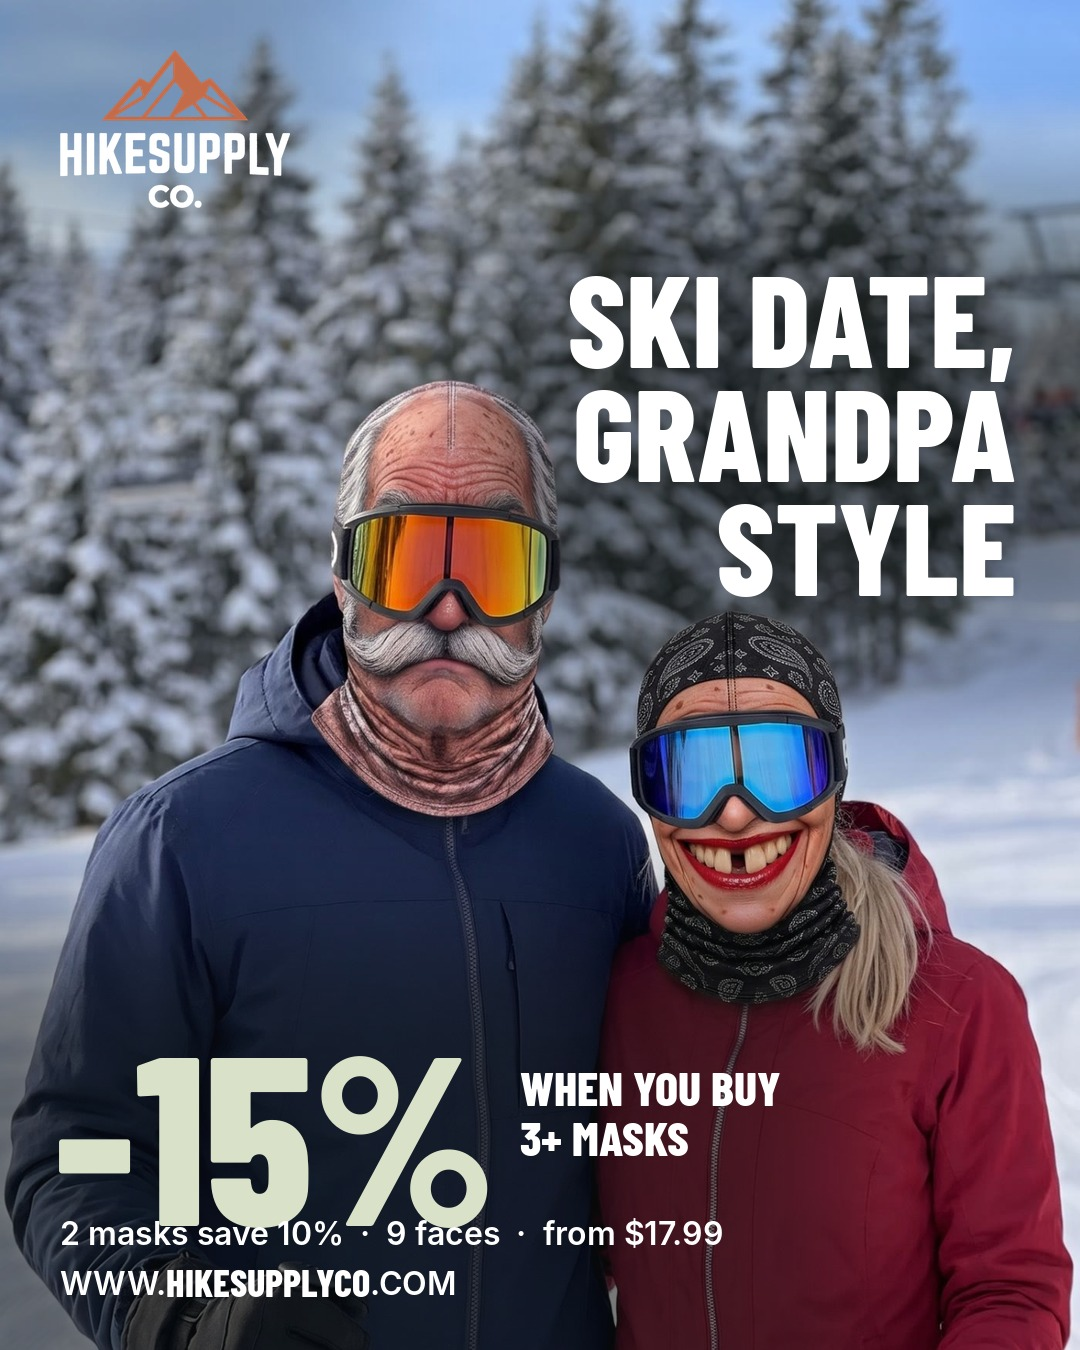
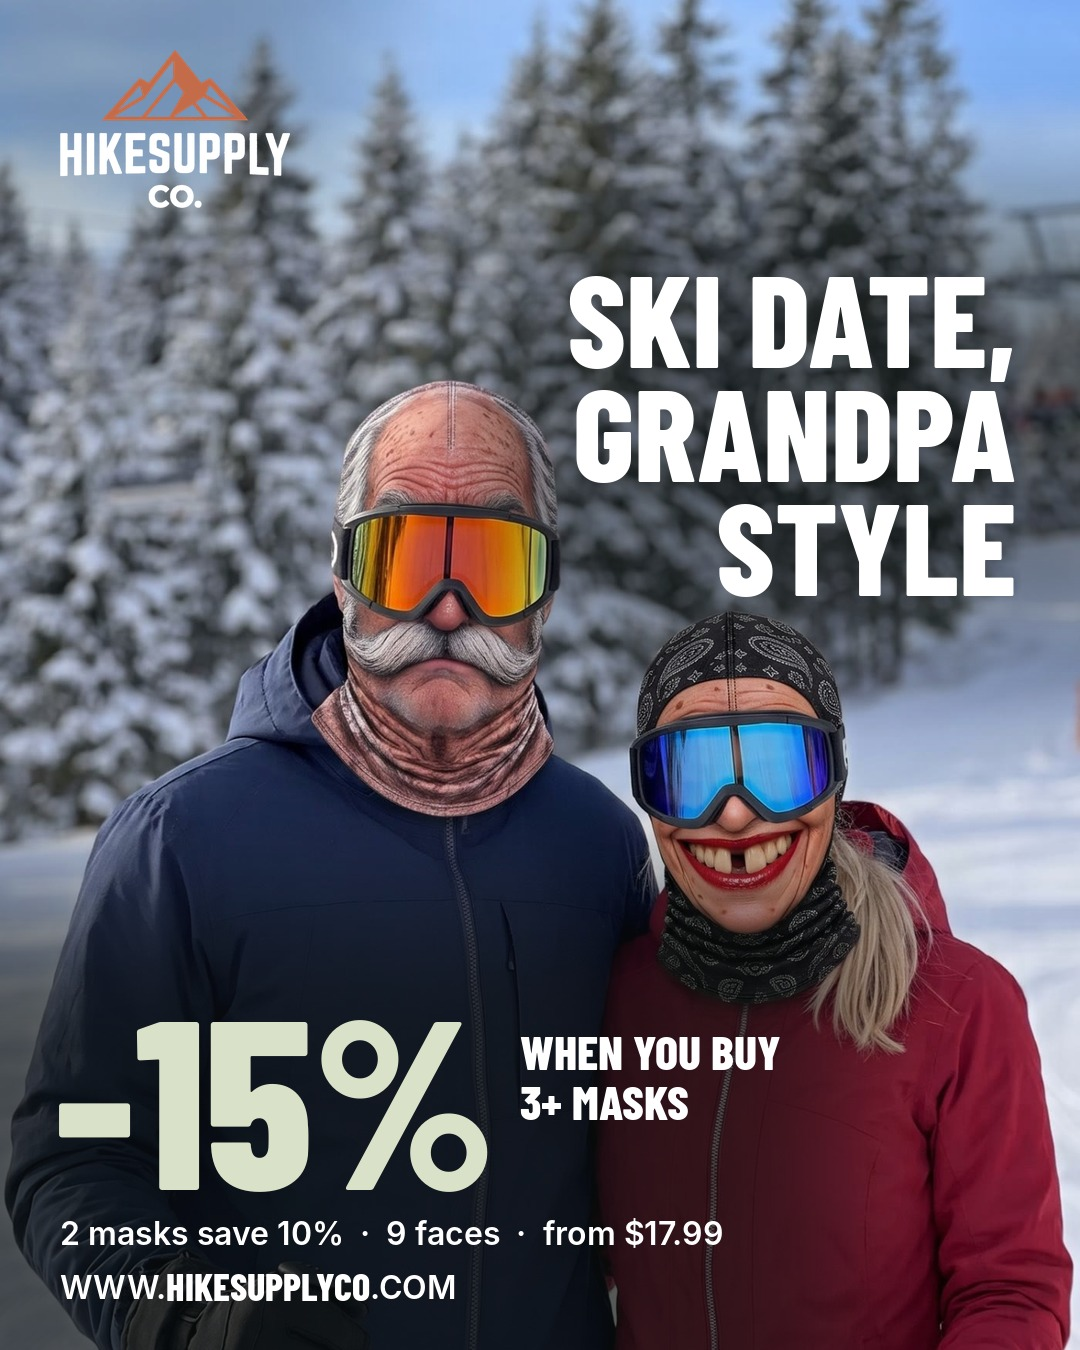
Promo: clear gap under the big number, darker shade behind the deal
Claude-Session: https://claude.ai/code/session_017Ww7bRLYZM3uMxkStKbUri

Changed region(s): [[0.0, 0.6222, 0.7333, 1.0], [0.5806, 0.6222, 0.7333, 0.7156]]

diff --git a/socks/render_promo.py b/socks/render_promo.py
@@ -122,7 +122,7 @@ def _render(spec, band):
         nw = text_w(d, spec["note"], fn)
         sw = d.textlength(spec.get("sub", ""), font=fsub)
         w = max(bw + 18 + nw, sw, 420)
-        h = int(bs * 0.95) + 46 + 50
+        h = fb.getbbox(spec["big"])[3] + 22 + 46 + 50
         x0 = x if x == M else W - M - w
         return (x0, bottom - h, x0 + w, bottom), fb, fn, bw
 
@@ -150,7 +150,7 @@ def _render(spec, band):
     # soft shade only behind the text blocks
     sh = Image.new("L", (W, H), 0)
     sd = ImageDraw.Draw(sh)
-    blocks = [(hbox, 120), ((lx, ly, lx + lw, ly + lg.height), 70)] + ([] if band else [(dbox, 140)])
+    blocks = [(hbox, 120), ((lx, ly, lx + lw, ly + lg.height), 70)] + ([] if band else [(dbox, 175)])
     for b, a in blocks:
         sd.rectangle((b[0] - 70, b[1] - 50, b[2] + 70, b[3] + 50), fill=a)
     sh = sh.filter(ImageFilter.GaussianBlur(70))
@@ -179,10 +179,10 @@ def _render(spec, band):
     for ln in note_lines:
         d.text((x0 + bw + 18, ny), ln, font=fn, fill="white")
         ny += int(fn.size * 1.05)
-    sy = by + int(bsz * 0.95)
+    sy = by + fb.getbbox(spec["big"])[3] + 22  # clear gap under the big number (Vasil 2026-11-20)
     if spec.get("sub"):
         d.text((x0, sy), spec["sub"], font=fsub, fill="white")
-    u = sy + 50
+    u = sy + 54
     d.text((x0, u), "WWW.", font=fu, fill="white")
     x = x0 + d.textlength("WWW.", font=fu)
     d.text((x, u - 5), "HIKESUPPLYCO", font=fu_b, fill="white")
